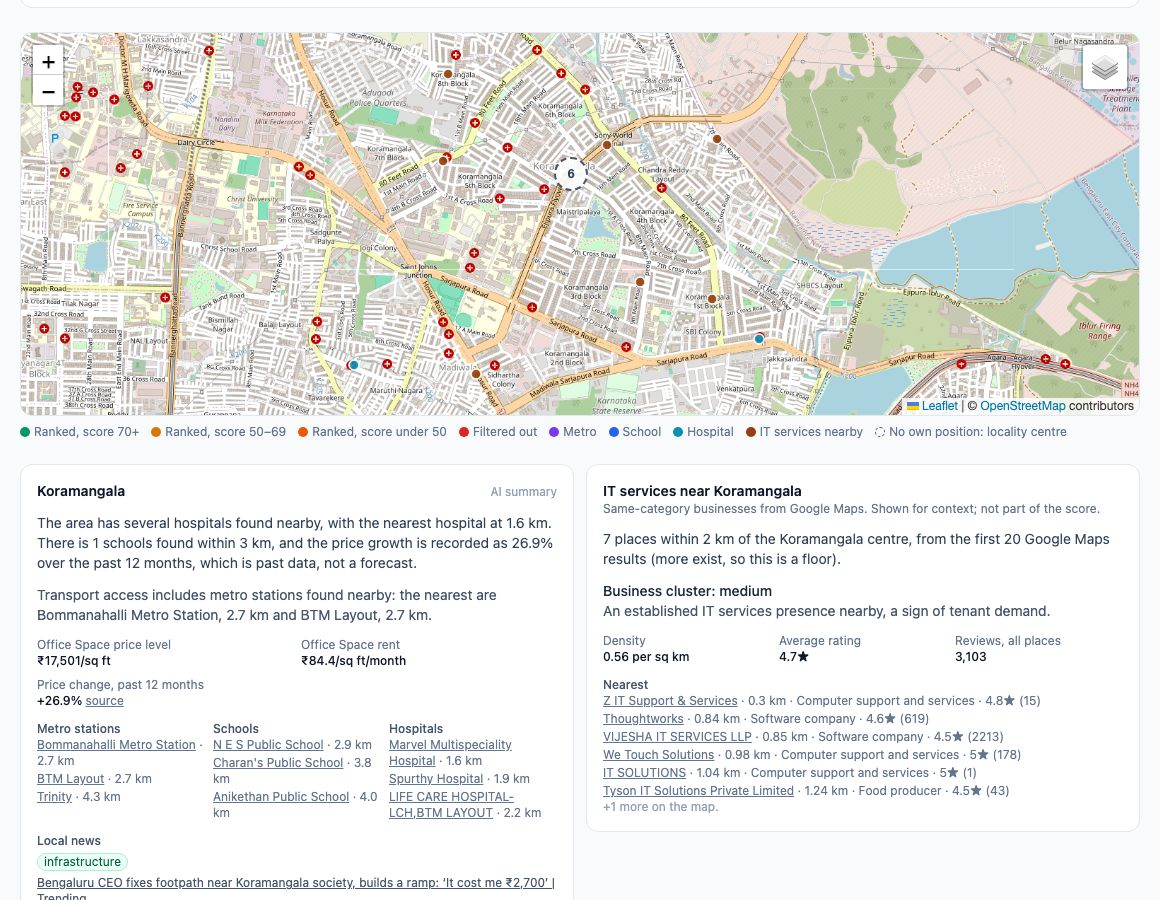
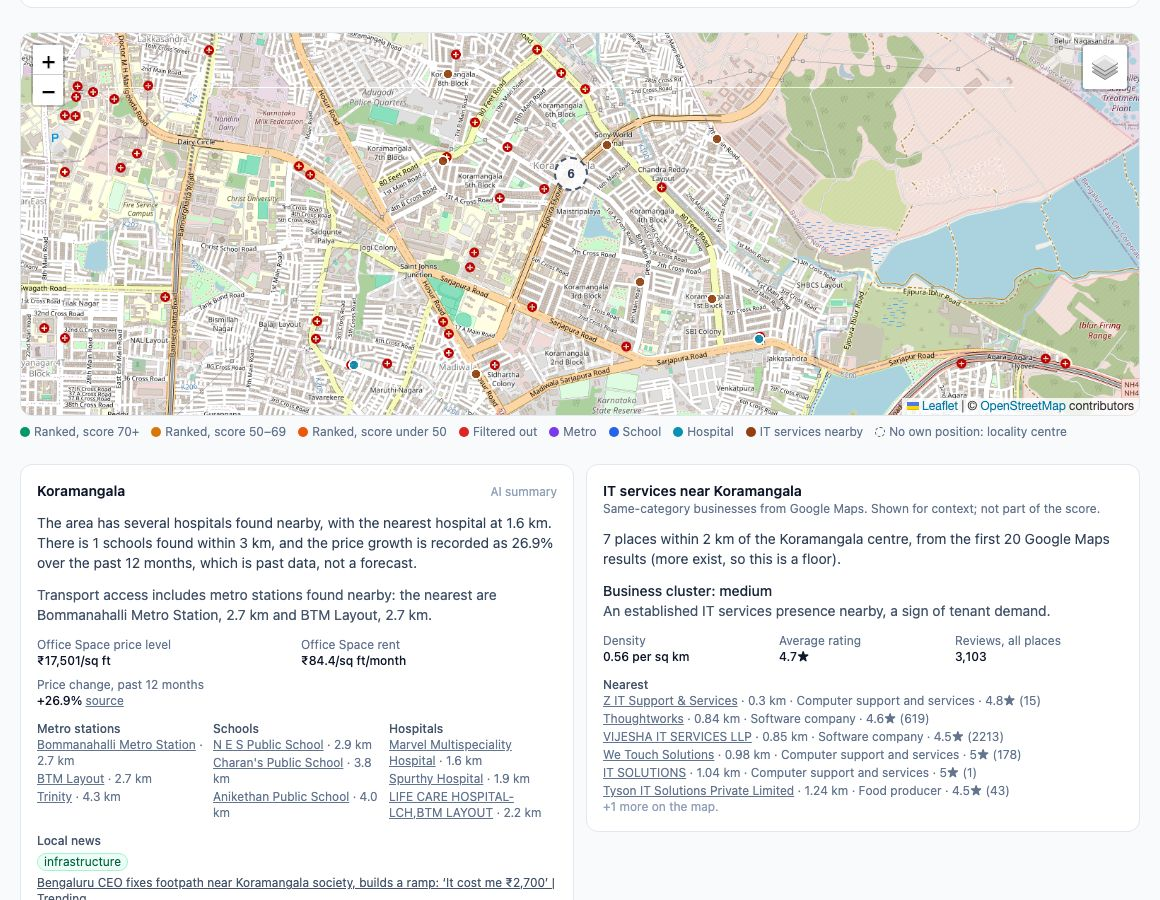
Close out P0 bookkeeping: audit the data model and API docs (I-08, I-10, D-01)
- I-08: DATA_MODEL.md checked table by table against models.py. Fixed the
  cache tables' key column (key, not cache_key), listed stored columns that
  were missing, marked saved_properties and alerts as F-08/F-10, and added
  the frozen per-run area and competitor tables to the diagram.
- D-01: API.md checked route by route against openapi.json: no route
  missing or extra, every status right (the six stubs are F-08/F-10).
- I-09: the orchestrator docstring and PIPELINE.md status no longer say
  later stages are unbuilt; I-10: every endpoint a screen uses has a hook.
- F-05 done with Google Trends explicitly deferred (P1); S-01's stale box
  reworded; the architecture diagram's DeepSeek node renamed from its
  Gemini-era id.
- README screenshots retaken: the I-12 re-recording made Sowparnika
  Columns #1 and its locality now shows as confirmed by the page title.

Every P0 row is done except SUB (the user's: public repo, video, form).

diff --git a/backend/app/pipeline/orchestrator.py b/backend/app/pipeline/orchestrator.py
@@ -3,10 +3,9 @@
     plan -> fetch -> clean -> verify -> enrich -> rank
 
 `start_run` creates a `pipeline_runs` row and runs `run_pipeline` on a background thread with its
-own database session; the UI polls `GET /api/runs/{id}` for `StageEvent`s. Built so far: plan,
-fetch and clean (F-02), and verify (F-03). Later stages are reported as not built yet.
-A failing stage marks the
-run failed but keeps everything saved so far.
+own database session; the UI polls `GET /api/runs/{id}` for `StageEvent`s. Every stage is built:
+plan, fetch and clean (F-02), verify (F-03), enrich (F-05, F-06, F-09) and rank (F-04). A failing
+stage marks the run failed but keeps everything saved so far.
 """
 
 import logging

diff --git a/CHECKLIST.md b/CHECKLIST.md
@@ -33,9 +33,9 @@ code for an ID finds every stub that belongs to it.
 | I-05 | Budget endpoint via SerpApi Account API | P1 | ✅ | |
 | I-06 | DeepSeek provider with structured output | P0 | ✅ | |
 | I-07 | LLM record / replay cache | P0 | ✅ | |
-| I-08 | Database schema and session | P0 | 🧱 | |
+| I-08 | Database schema and session | P0 | ✅ | |
 | I-09 | Pipeline orchestrator, background runs, stage events | P0 | ✅ | |
-| I-10 | Frontend shell, routing, API client, generated types | P0 | 🧱 | |
+| I-10 | Frontend shell, routing, API client, generated types | P0 | ✅ | |
 | I-11 | Background scheduler | P1 | 🧱 | |
 | I-12 | Bengaluru locality data and geocoding | P0 | ✅ | |
 | I-13 | Recorded demo fixtures for judges | P0 | ✅ | |
@@ -45,7 +45,7 @@ code for an ID finds every stub that belongs to it.
 | F-02 | Property discovery | P0 | ✅ | |
 | F-03 | AI relevance verification | P0 | ✅ | |
 | F-04 | Ranked recommendations with reasons | P0 | ✅ | |
-| F-05 | Area intelligence | P0 | 🟨 | |
+| F-05 | Area intelligence | P0 | ✅ | |
 | F-06 | Competitor analysis (commercial) | P0 | ✅ | |
 | F-07 | Property detail page | P0 | ✅ | |
 | F-08 | Saved properties and side-by-side compare | P1 | 🧱 | |
@@ -65,7 +65,7 @@ code for an ID finds every stub that belongs to it.
 | F-18 | Natural-language search → profile | P2 | ⏸ | |
 | F-21 | Auth and multi-user | P2 | ⏸ | |
 | **Docs and submission** | | | | |
-| D-01 | Docs kept current (see Docs section) | P0 | 🟨 | |
+| D-01 | Docs kept current (see Docs section) | P0 | ✅ | |
 | SUB | Hackathon submission | P0 | ⬜ | |
 
 ---
@@ -98,7 +98,7 @@ Findings in [docs/spikes/S-01-data-coverage.md](docs/spikes/S-01-data-coverage.m
 - [x] Per portal: single listings 0 of 87; all search pages (+2 NoBroker project pages)
 - [x] Per field: price, ₹/sq ft, size, BHK, status coverage measured; no posted dates, no rich_snippet
 - [x] Query templates decided with the product owner and implemented in `query_planner.py`
-- [ ] google_news, google_trends and "property rates" queries: moved to F-05, which needs them
+- [x] google_news and "property rates" queries built in F-05; google_trends deferred there (P1)
 
 ### S-02 LLM extraction accuracy · P0 · ✅
 Findings: [docs/spikes/S-02-extraction-accuracy.md](docs/spikes/S-02-extraction-accuracy.md).
@@ -166,23 +166,27 @@ DeepSeek V4 Pro replaced Gemini before any Gemini code existed (ADR 0012).
       tested with fake provider outputs
 - [x] Replay mode runs the whole demo without a DeepSeek key (`test_demo_replay.py`)
 
-### I-08 Database · P0 · 🧱
+### I-08 Database · P0 · ✅
 - [x] Tables defined in `app/db/models.py`, created on startup
 - [x] WAL mode, `busy_timeout`, foreign keys on (ADR 0009)
-- [ ] Repository helpers as each feature needs them
-- [ ] docs/DATA_MODEL.md kept in sync
+- [x] Persistence helpers as features needed them (`pipeline/persist.py`, services); F-08/F-10
+      add theirs
+- [x] docs/DATA_MODEL.md audited against `models.py` (2026-10-07): all 14 tables, keys and
+      columns, with the frozen per-run tables in the diagram
 
 ### I-09 Pipeline orchestrator · P0 · ✅
 - [x] `start_run`: create run row, launch `run_pipeline` in a background thread
 - [x] Emit `StageEvent`s with counts per stage; persist partial results
 - [x] Failure handling: failed stage marks run failed, earlier results stay viewable
-- [ ] Each later feature adds its stage (verify F-03, enrich F-05/F-06/F-09, rank F-04)
+- [x] Each later feature added its stage (verify F-03, enrich F-05/F-06/F-09, rank F-04)
 
-### I-10 Frontend shell · P0 · 🧱
+### I-10 Frontend shell · P0 · ✅
 - [x] Routes and placeholder pages for every screen
 - [x] Typed API client with the shared error shape
 - [x] `make types` generates `src/api/schema.d.ts` from OpenAPI (rerun after schema changes)
-- [ ] TanStack Query hooks per endpoint (health, profiles, runs, property detail done)
+- [x] TanStack Query hooks for every endpoint a screen uses (health, budget, profile options,
+      profiles, target suggestion, runs and their listings, checks, areas, competitors,
+      recommendations, property detail). F-08/F-10 add theirs; `/areas/{key}` needs none
 
 ### I-11 Scheduler · P1 · 🧱
 - [x] APScheduler wiring, off by default (`SCHEDULER_ENABLED`)
@@ -259,7 +263,7 @@ Design from S-01 and the product owner's checkpoint ([ADR 0011](docs/decisions/0
 - [x] Recorded for both demos (9 lite calls); tests for weights, value curve, penalties,
       ties, number guard, failure handling and demo replay
 
-### F-05 Area intelligence · P0 · 🟨
+### F-05 Area intelligence · P0 · ✅
 - [x] `locality_key` + cache per locality with TTL (`area_intel`, 7 days)
 - [x] Amenities from google_maps (metro, school, hospital) with distances (ADR 0016)
 - [x] News from google_news, classified by topic and sentiment; display only (ADR 0020, after
@@ -271,7 +275,7 @@ Design from S-01 and the product owner's checkpoint ([ADR 0011](docs/decisions/0
 - [x] Area score fills F-04's `area` component (amenity access only; growth reserved for F-09)
 - [x] Area panel on the run page; access line on recommendation cards
 - [x] Recorded for both demos (10 searches, 4 lite calls; 9 explanations re-recorded)
-- [ ] P1: rental demand from google_trends (compare localities in one call) + chart (deferred)
+- [ ] P1, deferred: rental demand from google_trends (compare localities in one call) + chart
 
 ### F-06 Competitor analysis (commercial) · P0 · ✅
 Per locality and business type, read by property type, display only
@@ -357,10 +361,11 @@ Kept current as features land. ✅ means the doc exists and matches the code tod
 - [x] docs/PRODUCT.md, docs/ARCHITECTURE.md, docs/PIPELINE.md
 - [x] docs/SERPAPI_USAGE.md (doubles as the submission's SerpApi explanation)
 - [x] docs/DATA_MODEL.md, docs/API.md, docs/DEVELOPMENT.md
-- [x] docs/decisions/ ADR 0001–0023
+- [x] docs/decisions/ ADR 0001–0024
 - [x] docs/spikes/S-01 filled with real findings
 - [x] Screenshots in README (`docs/images/`, from the replay demo)
-- [ ] Final pass: every endpoint in API.md shows its real status
+- [x] Final pass: API.md matches the routes in `openapi.json` exactly, each with its real status
+      (2026-10-07)
 
 ---
 

diff --git a/docs/DATA_MODEL.md b/docs/DATA_MODEL.md
@@ -63,7 +63,7 @@ Every investor-facing fact is wrapped like this (`schemas/provenance.py`):
 | Table | Key | Holds | Notes |
 |---|---|---|---|
 | `investor_profiles` | `id` | `InvestorProfileIn` JSON | |
-| `pipeline_runs` | `id` | status, current stage, `StageEvent[]`, searches used, cache hits | FK profile |
+| `pipeline_runs` | `id` | status, current stage, `StageEvent[]`, searches used, cache hits, error, created and finished times | FK profile |
 | `listings` | `id` = stable hash of the candidate's identity | `Listing` JSON; `kind`, `portal`, `locality`, `price_inr`, `size_sqft`, `price_per_sqft` columns | Shared across runs, so a repeat run updates the same rows |
 | `listing_observations` | `id`; unique (`listing_id`, `run_id`) | price at the time | One row per candidate per run: "found in this run" and price history |
 | `run_results` | `id` | Progressive JSON: `listing` snapshot, nullable `verification`, and for ranked rows `recommendation` (score, score_breakdown, reason, highlights, risks, explained, access, metrics) | One row per listing per run; rank 1..n for ranked candidates, null for rejects and unchecked |
@@ -71,11 +71,11 @@ Every investor-facing fact is wrapped like this (`schemas/provenance.py`):
 | `area_intel` | `locality_key` | `AreaIntel` JSON (centre, amenities, `price_growth_pct`, per-type `price_levels` and `rent_levels`, summaries, `section_status`, `warnings`, `schema_version`, `provider_modes`), `expires_at` (= `fetched_at` when a section failed) | e.g. `bengaluru/whitefield`; rebuilt after the TTL |
 | `competitor_reports` | hash(locality, rounded centre, business type, radius) | `CompetitorReport` JSON | Area TTL; a failed search expires at once (ADR 0023) |
 | `run_competitor_reports` | `id` | `run_id`, `locality_key`, `CompetitorReport` JSON as the run used it | One row per run and commercial locality; frozen; deleted with the profile |
-| `serp_cache` | `cache_key` | raw SerpApi JSON, `search_id` | Same key as fixture file names |
-| `search_ledger` | autoincrement | engine, key, run, `live` | Budget is computed from this |
-| `llm_cache` | hash(task, model, tier, prompt, schema) | validated LLM output | Replay reads fixtures only; record writes cache hits too |
-| `saved_properties` | `listing_id` | note, saved time | |
-| `alerts` | `id` | kind, listing, message, read time | |
+| `serp_cache` | `key` (`gateway.cache_key`) | engine, params, raw SerpApi JSON, `search_id`, fetched time | Same key as fixture file names |
+| `search_ledger` | autoincrement `id` | engine, cache key, run, `live`, time | Budget is computed from this |
+| `llm_cache` | `key` = hash(task, model, tier, prompt, schema) | task, model, validated LLM output, time | Replay reads fixtures only; record writes cache hits too |
+| `saved_properties` | `listing_id` | note, saved time | F-08 (not built) |
+| `alerts` | `id` | profile, kind, listing, message, created and read times | F-10 (not built) |
 
 ```mermaid
 erDiagram
@@ -84,6 +84,8 @@ erDiagram
     pipeline_runs ||--o{ run_results : "produces"
     listings ||--o{ run_results : "ranked in"
     pipeline_runs ||--o{ listing_observations : "found"
+    pipeline_runs ||--o{ run_area_intel : "froze"
+    pipeline_runs ||--o{ run_competitor_reports : "froze"
     listings ||--o{ listing_observations : "seen at a price"
     listings ||--o| saved_properties : "saved as"
     listings ||--o{ alerts : "about"

diff --git a/docs/PIPELINE.md b/docs/PIPELINE.md
@@ -18,9 +18,10 @@ Each stage emits a `StageEvent` (status, message, counts) that the UI polls, so 
 the pipeline working live (F-20). A failing stage marks the run failed without discarding
 earlier results.
 
-> Status: plan, fetch and clean (F-02), verification (F-03, with F-12 price flags) and rank
-> (F-04) are built, and enrich has area intelligence (F-05), competitors (F-06, commercial) and investment metrics (F-09). Both demo profiles replay end to end with no keys, from committed
-> SerpApi and DeepSeek recordings. Discovery comes from S-01
+> Status: every stage is built. Plan, fetch and clean (F-02, with locality evidence from I-12),
+> verify (F-03, with F-12 price and location flags), enrich (area intelligence F-05,
+> competitors F-06 for commercial profiles, investment metrics F-09) and rank (F-04). Both demo
+> profiles replay end to end with no keys, from committed SerpApi and DeepSeek recordings. Discovery comes from S-01
 > ([findings](spikes/S-01-data-coverage.md), [ADR 0011](decisions/0011-discovery-from-search-snippets.md)).
 
 ## 1 · Plan (`query_planner.py`, F-02)

diff --git a/CHANGELOG.md b/CHANGELOG.md
@@ -13,6 +13,10 @@ Reference CHECKLIST IDs.
   Tests no longer read `.env`, so they cannot pick up real API keys.
 
 ### Added
+- 2026-10-07 · P0 close-out (I-08, I-09, I-10, F-05, S-01, D-01): DATA_MODEL.md audited against
+  the models (column names, the frozen per-run tables in the diagram); API.md checked route by
+  route against OpenAPI; status lines and the orchestrator docstring brought up to date; README
+  screenshots retaken after the I-12 re-recording. Every P0 row is done except SUB.
 - 2026-10-07 · Extraction accuracy spike (S-02): 20 hand-labelled snippet entries scored three
   ways. Regex is right on 19/19 prices, rates and BHK and 18/19 sizes and statuses; DeepSeek
   alone is never wrong but misses what needs arithmetic. Regex stays first and the LLM a gap

diff --git a/docs/ARCHITECTURE.md b/docs/ARCHITECTURE.md
@@ -22,7 +22,7 @@ flowchart LR
     end
 
     SERP[(SerpApi<br/>google · google_maps<br/>google_news · google_trends<br/>google_maps_reviews)]
-    GEM[(DeepSeek API)]
+    DS[(DeepSeek API)]
     OSM[(OpenStreetMap tiles)]
     FIX[[fixtures/<br/>recorded responses]]
 
@@ -31,7 +31,7 @@ flowchart LR
     API --> SVC --> PIPE
     JOBS --> SVC
     PIPE --> GW --> SERP
-    PIPE --> LLM --> GEM
+    PIPE --> LLM --> DS
     GW <--> FIX
     LLM <--> FIX
     SVC <--> DB
